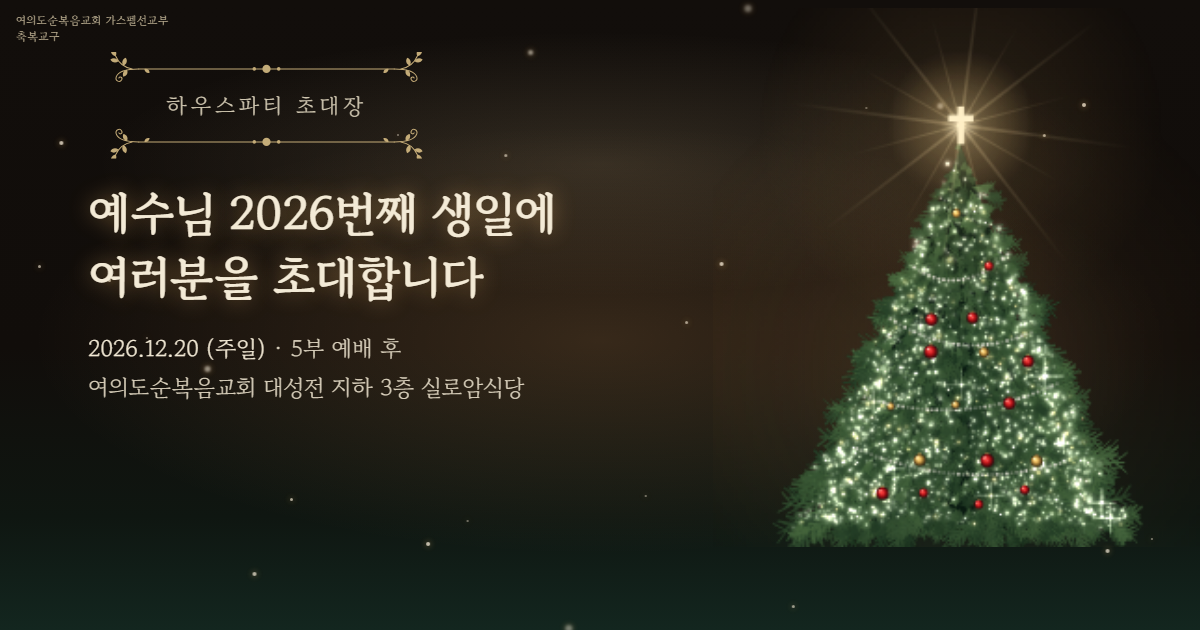
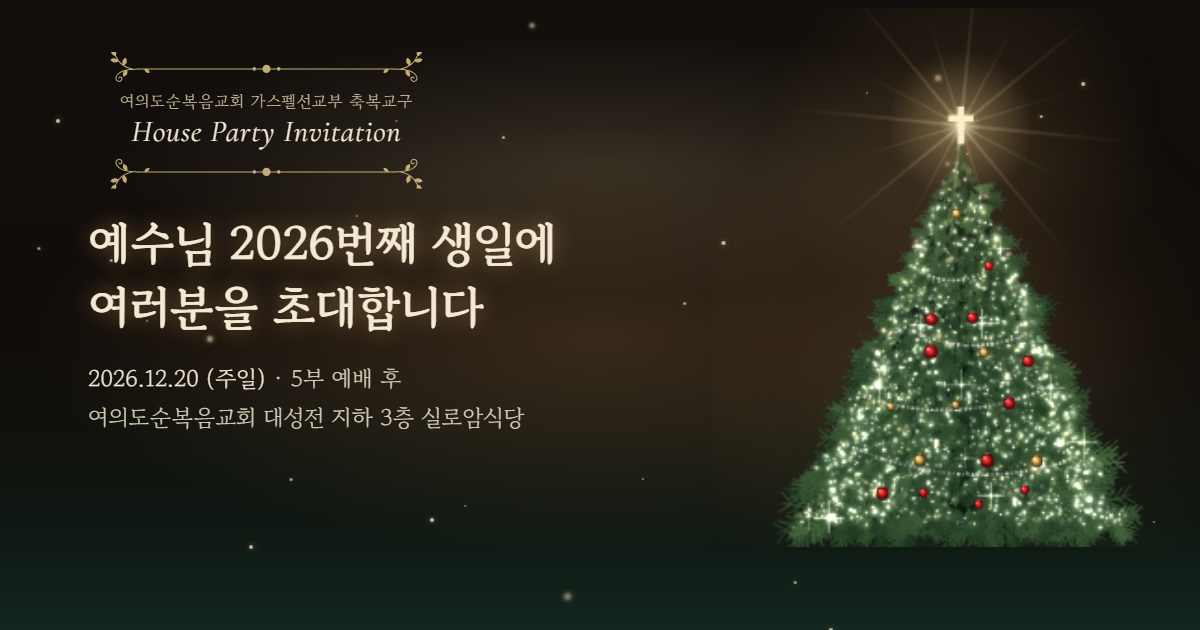
초대장 업데이트 2026-11-25 20:05

diff --git a/index.html b/index.html
@@ -5,12 +5,12 @@
 <meta name="viewport" content="width=device-width,initial-scale=1,viewport-fit=cover">
 <title>축복교구 하우스파티 · 예수님 2026번째 생일에 여러분을 초대합니다</title>
 <meta name="description" content="📅 12.20(주일) 5부 예배 후 📍 여의도순복음교회 대성전 지하 3층 실로암식당 🍽 준비물: 예수님과 함께 먹을 음식">
-<meta name="build" content="98f3da8c36">
+<meta name="build" content="b46ac3c185">
 <meta property="og:type" content="website">
 <meta property="og:title" content="축복교구 하우스파티 · 예수님 2026번째 생일에 여러분을 초대합니다">
 <meta property="og:description" content="📅 12.20(주일) 5부 예배 후 📍 여의도순복음교회 대성전 지하 3층 실로암식당 🍽 준비물: 예수님과 함께 먹을 음식">
 <meta property="og:url" content="https://channy33.github.io/house-party/">
-<meta property="og:image" content="https://channy33.github.io/house-party/og.png?v=109094d9">
+<meta property="og:image" content="https://channy33.github.io/house-party/og.png?v=9490fa00">
 <meta property="og:image:width" content="1200">
 <meta property="og:image:height" content="630">
 <meta property="og:image:alt" content="축복교구 하우스파티 · 예수님 2026번째 생일에 여러분을 초대합니다">
@@ -74,7 +74,7 @@
     flex-direction: column;
     align-items: center;
     justify-content: center; /* 큰 화면에서도 아래가 비지 않게 가운데로 */
-    padding-block: 2.9rem .75rem; /* 위쪽은 공유 버튼 자리 */
+    padding-block: 1.1rem .75rem;
   }
   .sky { position: absolute; inset: 0; z-index: 0; pointer-events: none; }
   .sky--night {
@@ -158,8 +158,8 @@
     color: #cdbf9f;
     text-align: left;
   }
-  .badge .badge__org { font-size: .8em; letter-spacing: .08em; color: #cdbf9f; }
-  .badge .badge__name { font-size: 1.06em; letter-spacing: .16em; }
+  .badge .badge__org { font-size: .78em; letter-spacing: .04em; color: #cdbf9f; }
+  .badge .badge__name { font-family: var(--script); font-style: italic; font-size: 1.45em; letter-spacing: .03em; line-height: 1.25; color: var(--ivory); }
   /* 잎사귀 덩굴 장식 — 위아래로 글을 감싼다 (아래는 뒤집어서) */
   .badge__orn { display: block; width: 17em; max-width: 72vw; height: auto; color: #d8bd84; opacity: .9; }
   .badge__orn--top { margin-bottom: .2em; }
@@ -192,7 +192,7 @@
   .headline > * { grid-area: 1 / 1; align-self: center; }
   /* 화면이 짧은 폰(카톡 안 등)에서는 위쪽을 조금씩 줄여 트리와 말씀 자리를 낸다 */
   @media (max-height: 720px) {
-    .stage { padding-top: 2.7rem; }
+    .stage { padding-top: .9rem; }
     .title { font-size: 1.42rem; }
     .headline { margin-top: .35rem; }
     .is-lit .scripture { margin-top: .7rem; }
@@ -312,15 +312,15 @@
     position: relative;
     z-index: 2;
     margin-top: 0;
-    height: max(15rem, min(calc(100vh - 22rem), calc((min(100vw, 30rem) - 2rem) * 1.162)));
-    height: max(15rem, min(calc(100svh - 22rem), calc((min(100vw, 30rem) - 2rem) * 1.162)));
+    height: max(15rem, min(calc(100vh - 21rem), calc((min(100vw, 30rem) - 2rem) * 1.162)));
+    height: max(15rem, min(calc(100svh - 21rem), calc((min(100vw, 30rem) - 2rem) * 1.162)));
     aspect-ratio: .74;
   }
   /* 키 큰 화면에서는 '초대장 보기' 단추가 말씀 아래 가운데에 뜨므로 그 자리도 남긴다 */
   @media (min-height: 781px) {
     .tree-wrap {
-      height: max(15rem, min(calc(100vh - 25.1rem), calc((min(100vw, 30rem) - 2rem) * 1.162)));
-      height: max(15rem, min(calc(100svh - 25.1rem), calc((min(100vw, 30rem) - 2rem) * 1.162)));
+      height: max(15rem, min(calc(100vh - 24.3rem), calc((min(100vw, 30rem) - 2rem) * 1.162)));
+      height: max(15rem, min(calc(100svh - 24.3rem), calc((min(100vw, 30rem) - 2rem) * 1.162)));
     }
   }
   /* 빛이 트리 밖으로 번질 자리를 남기려고 캔버스를 트리보다 크게 깐다 */
@@ -892,10 +892,10 @@
     <div class="sky sky--night" aria-hidden="true"></div>
     <div class="sky sky--warm" aria-hidden="true"></div>
     <div class="flash" aria-hidden="true"></div>
-    <p class="org">여의도순복음교회 가스펠선교부<br>축복교구</p>
     <div class="badge">
       <svg class="badge__orn badge__orn--top" viewBox="0 0 380 36" aria-hidden="true"><use href="#flourish"/></svg>
-      <p class="badge__name">하우스파티 초대장</p>
+      <p class="badge__org">여의도순복음교회 가스펠선교부 축복교구</p>
+      <p class="badge__name">House Party Invitation</p>
       <svg class="badge__orn badge__orn--bottom" viewBox="0 0 380 36" aria-hidden="true"><use href="#flourish"/></svg>
     </div>
     <!-- 안내 문구와 제목은 한 자리를 나눠 쓴다: 처음엔 안내만, 십자가를 켜면 제목으로 바뀐다 -->
